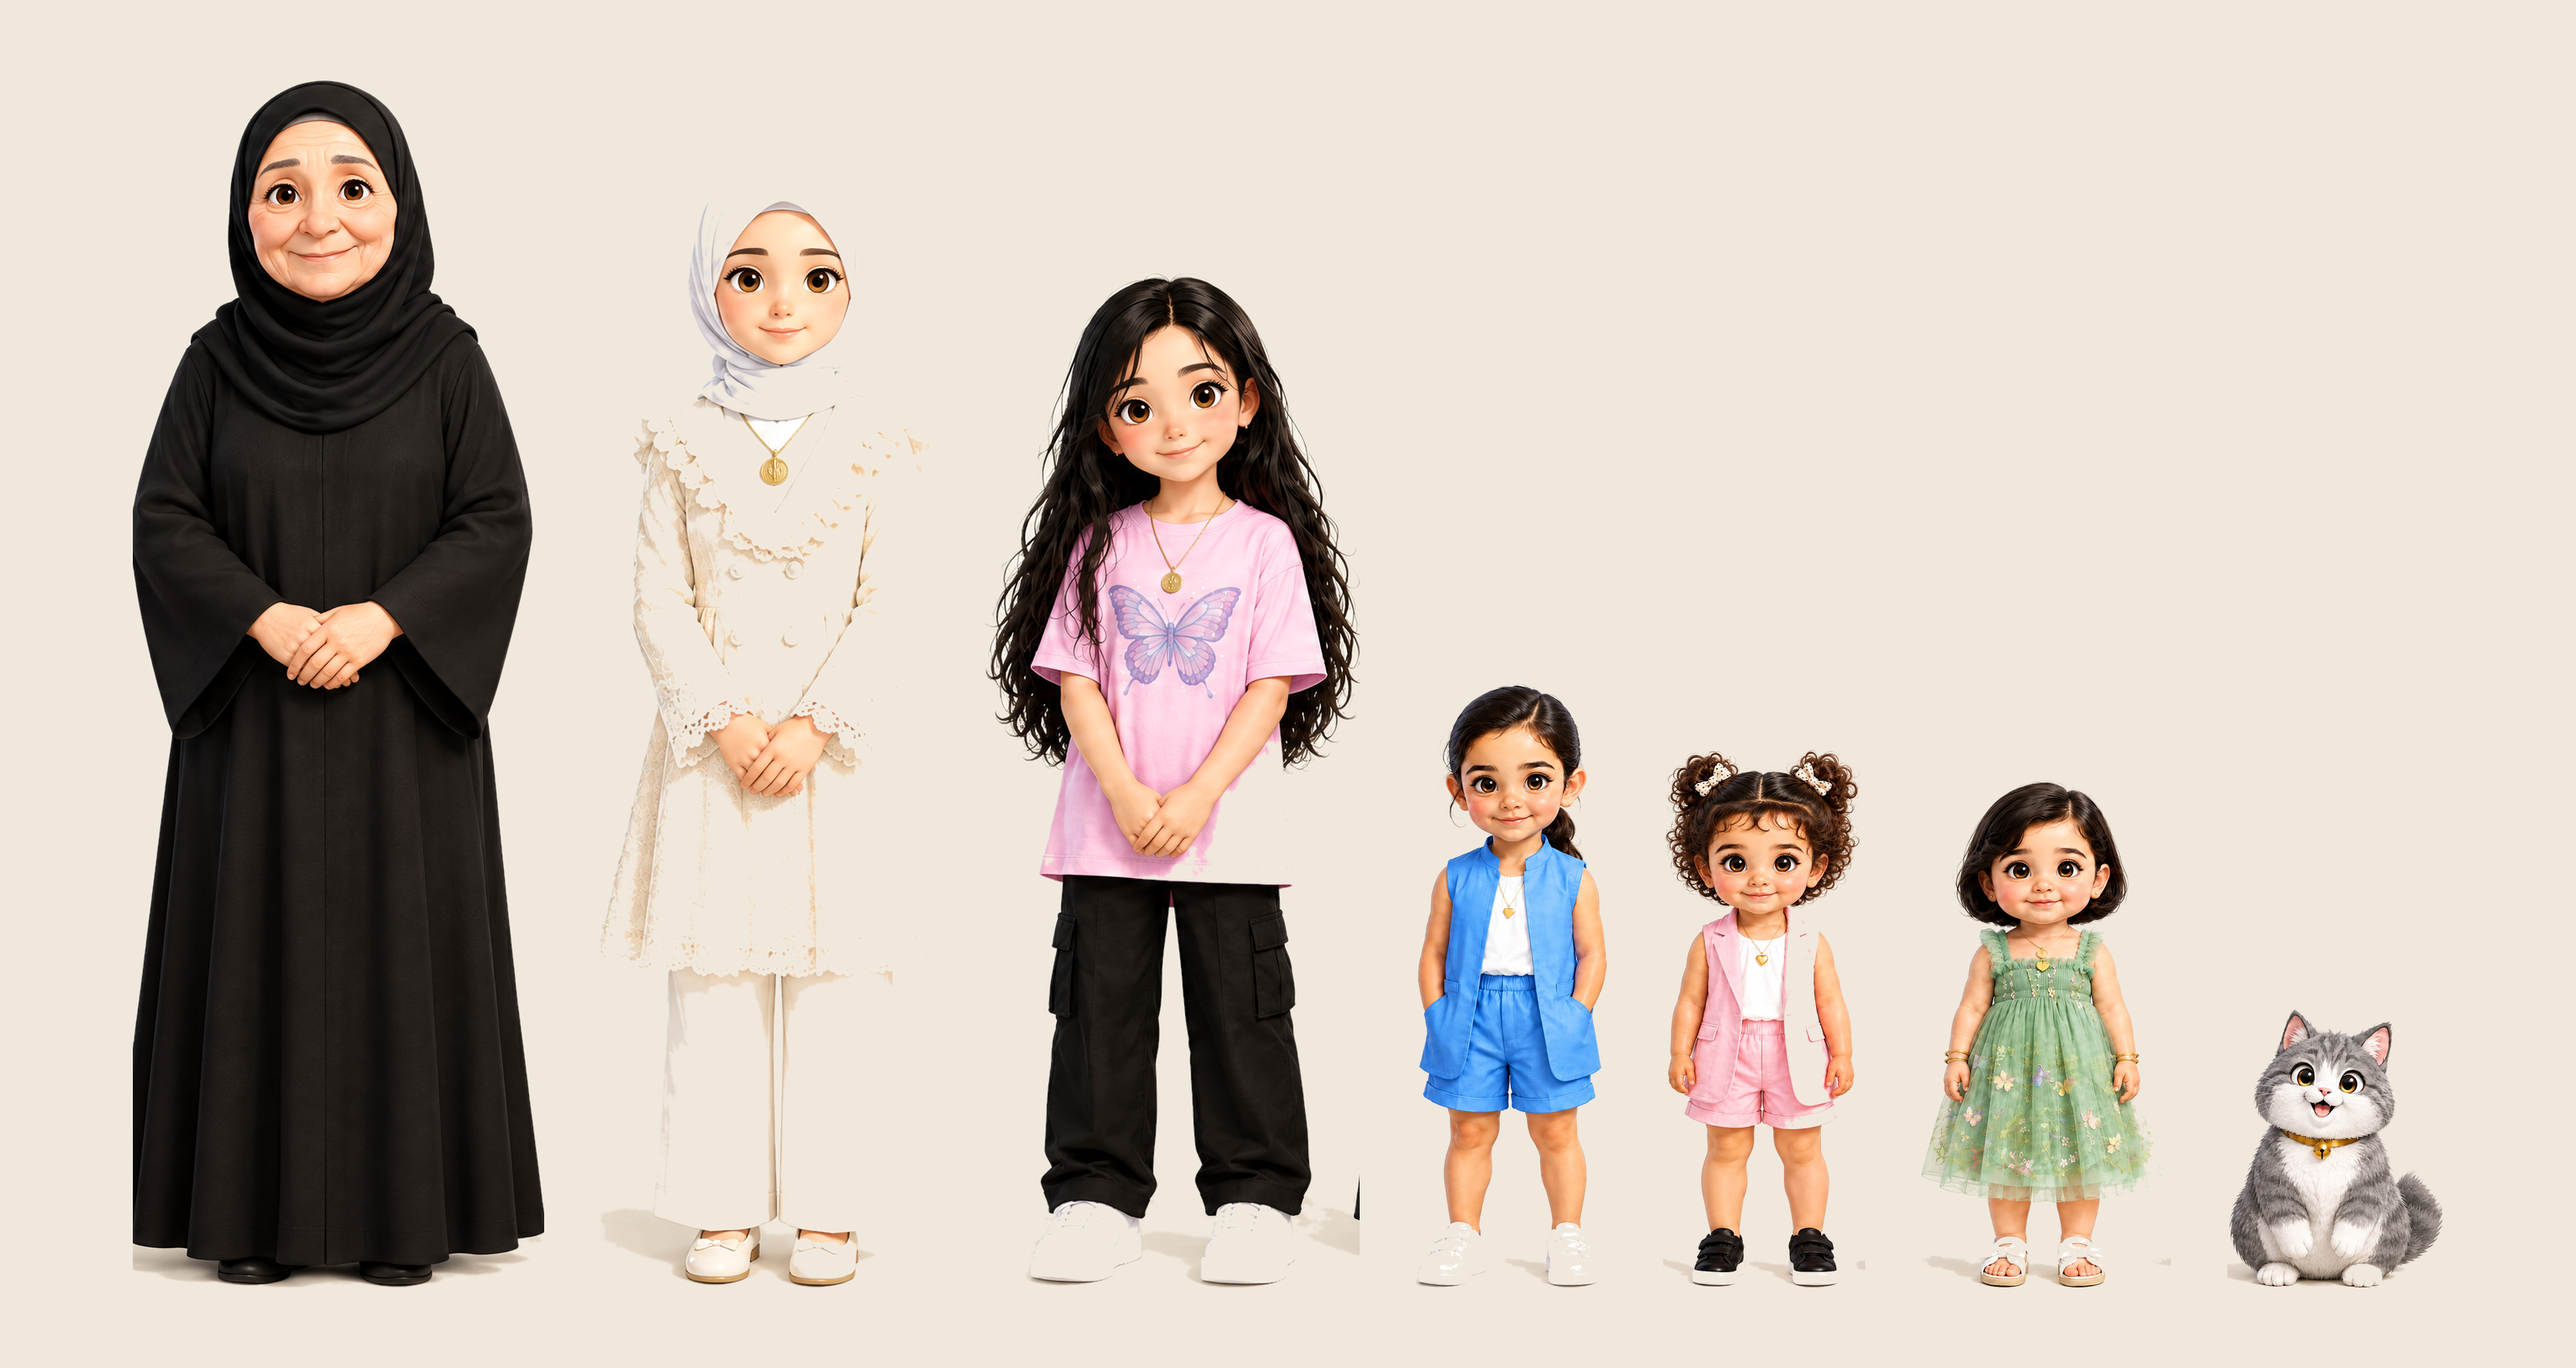
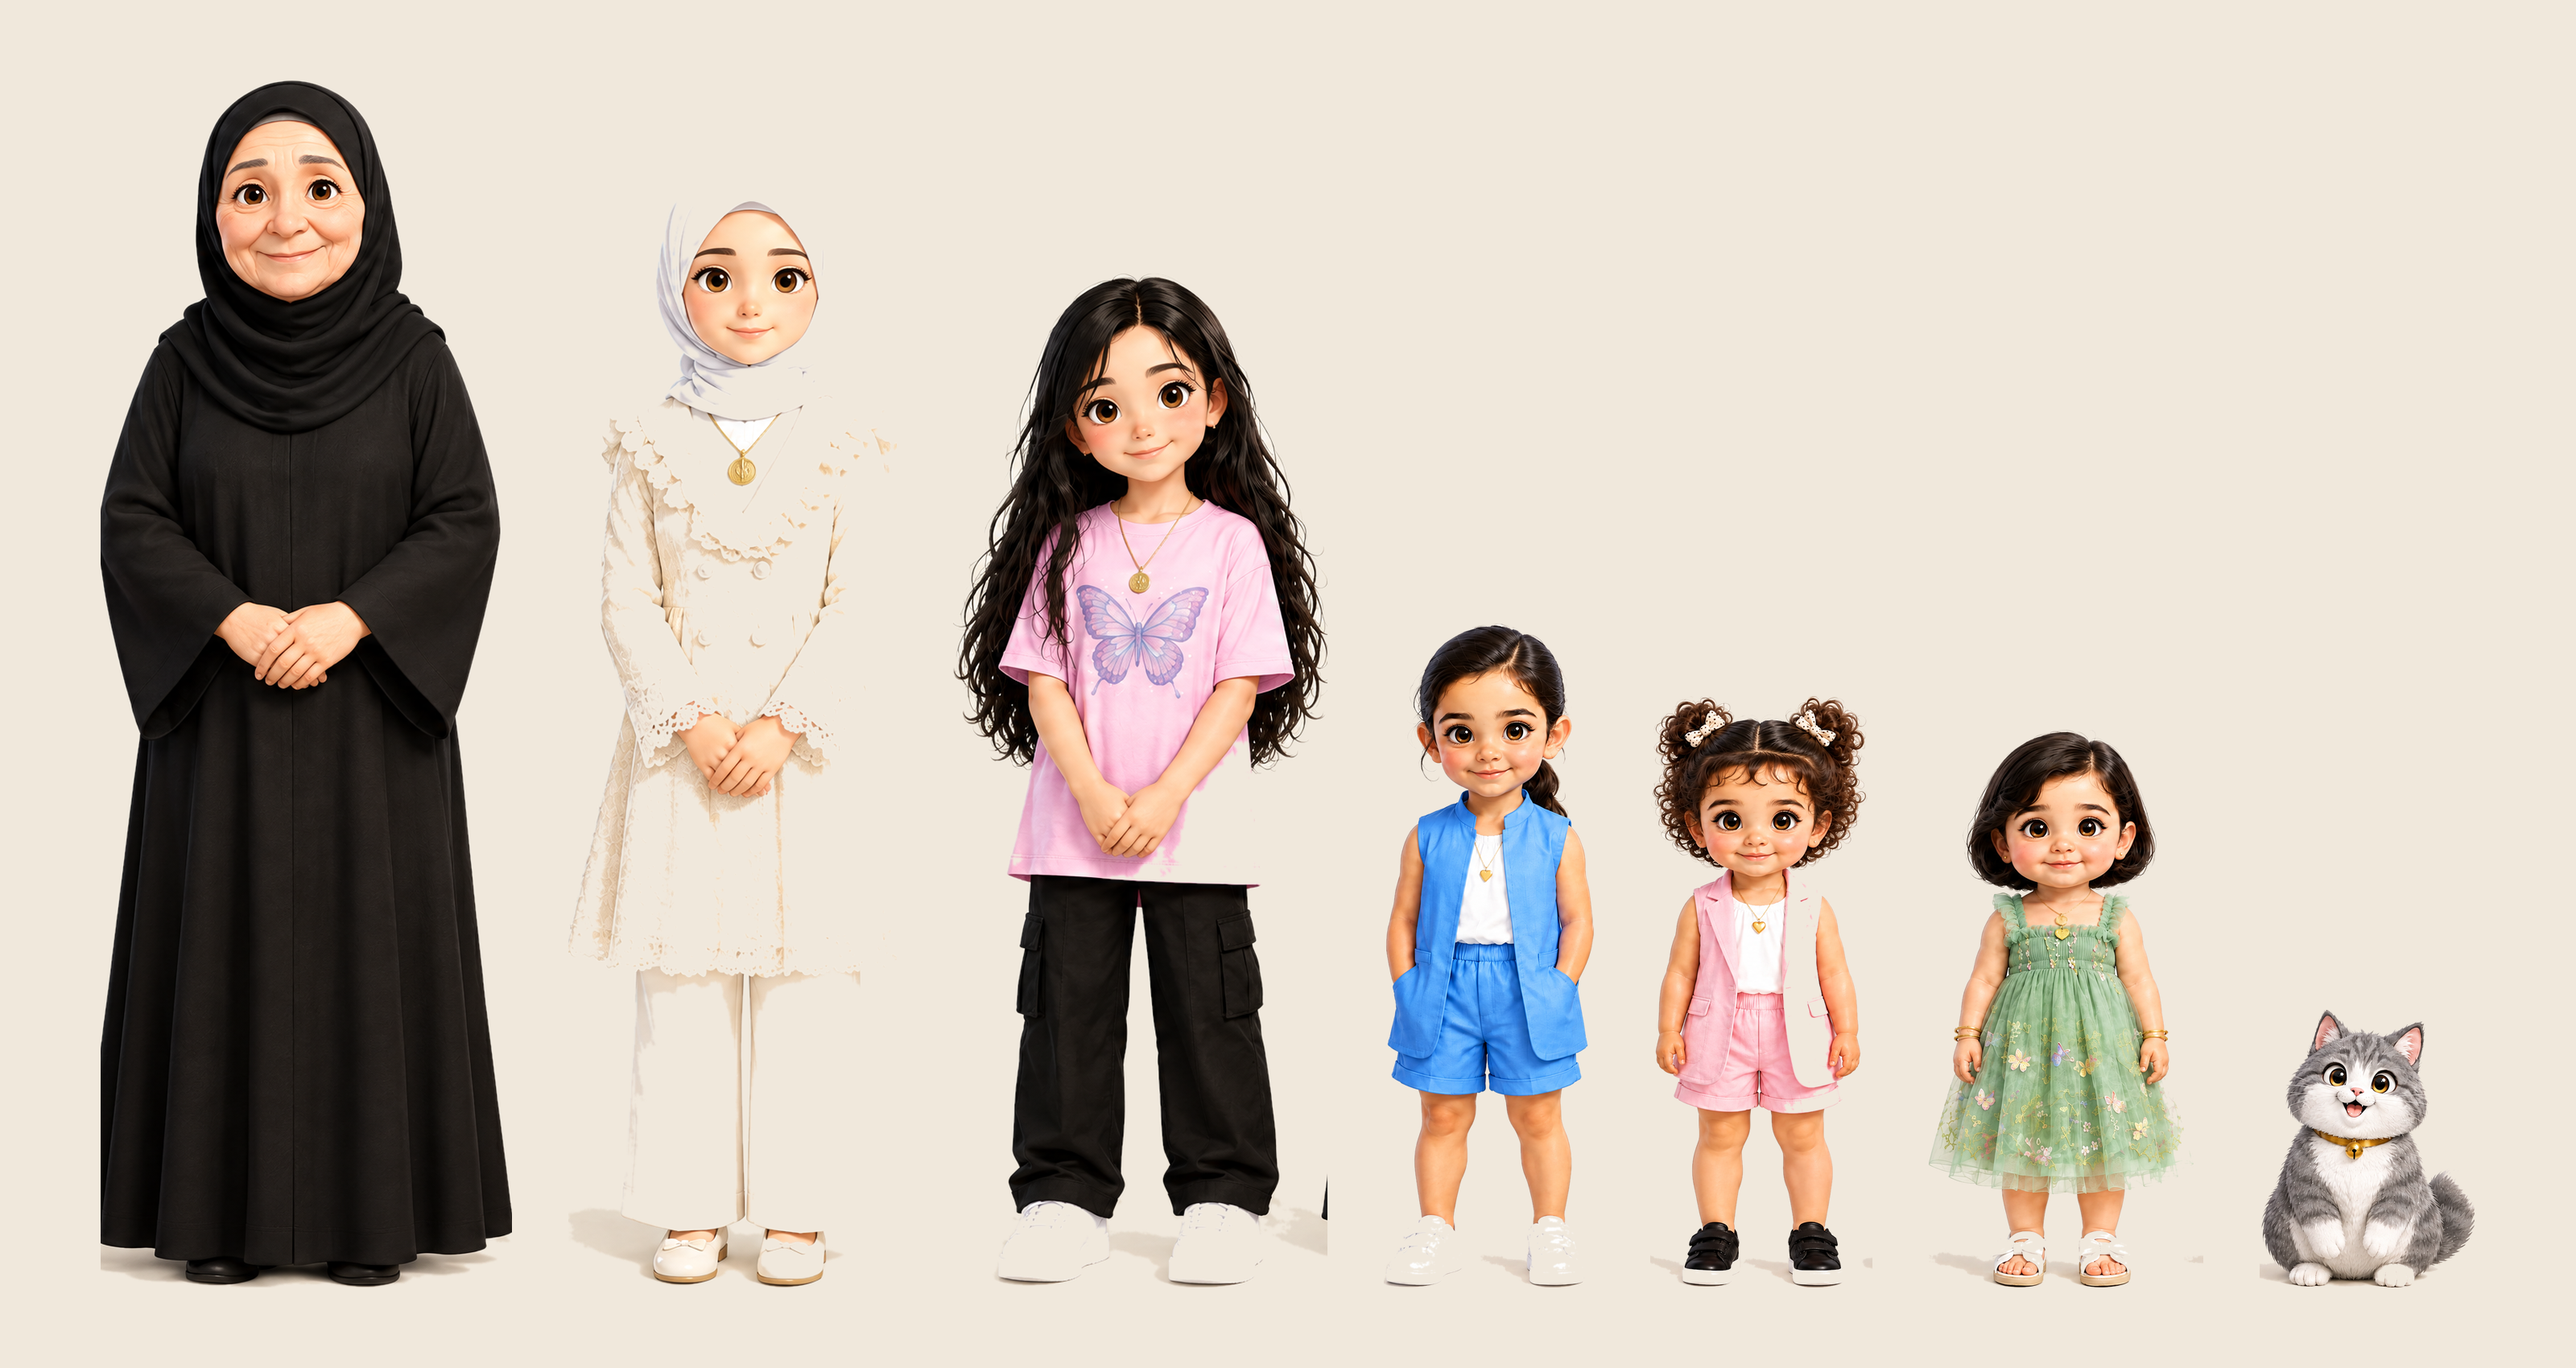
Raise Nadyah, Hoor, Afnan heights by 10 percent; regenerate scaled lineup
Claude-Session: https://claude.ai/code/session_013vfqJC6BQw7bW6agJJ6An6

Changed region(s): [[0.0312, 0.0624, 0.3438, 0.9665], [0.375, 0.1871, 0.7188, 0.9353], [0.75, 0.53, 0.9688, 0.9665]]

diff --git a/.agents/projects/little-wonder/episodes/ep-refs-APPROVED/CAST_AGES_HEIGHTS_RELATIONS.md b/.agents/projects/little-wonder/episodes/ep-refs-APPROVED/CAST_AGES_HEIGHTS_RELATIONS.md
@@ -22,9 +22,9 @@ Grandma > Zoozoo > Noonoo > Nadyah > Hoor > Afnan > Mishoo
 | Grandma | 100 | tallest |
 | Zoozoo | about 90 | slightly shorter than Grandma, second tallest |
 | Noonoo | about 84 | shorter than Zoozoo and Grandma, taller than everyone else |
-| Nadyah | about 50 | 60 percent of Noonoo; taller than Hoor and Afnan, shorter than Zoozoo and Noonoo |
-| Hoor | about 44.5 | taller than Afnan by 6 percent |
-| Afnan | about 42 | half of Noonoo's height; 6 percent shorter than Hoor |
+| Nadyah | about 55 (+10% per Maitham) | 60 percent of Noonoo; taller than Hoor and Afnan, shorter than Zoozoo and Noonoo |
+| Hoor | about 49 (+10%) | taller than Afnan by 6 percent |
+| Afnan | about 46 (+10%) | half of Noonoo's height; 6 percent shorter than Hoor |
 | Mishoo | about 23 (seated, ears to paws) | size approved as in the sheet (47 percent of Nadyah seated) |
 
 Notes for production:
